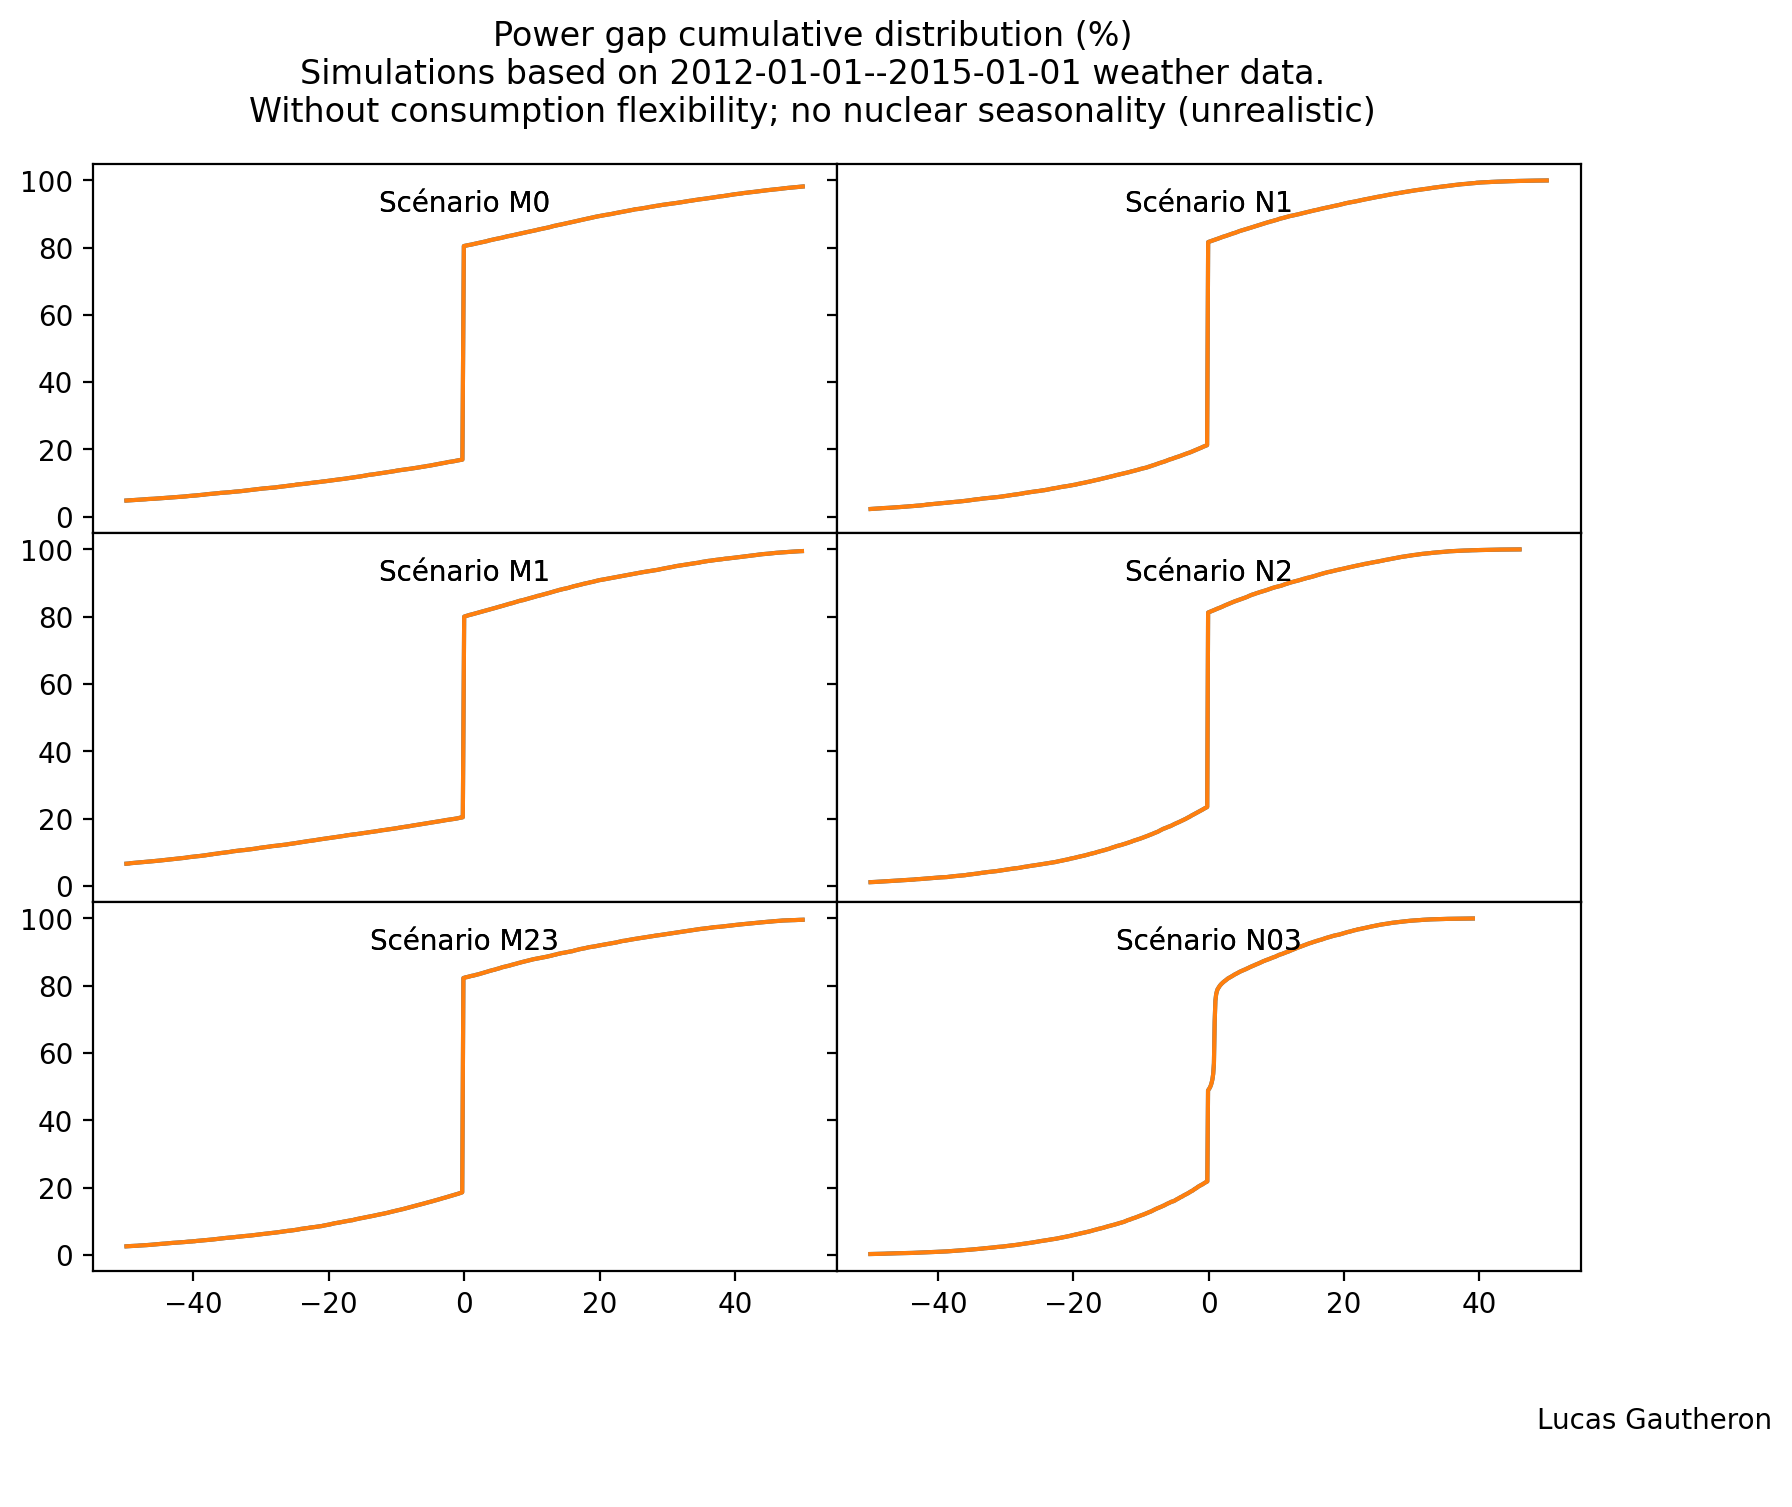
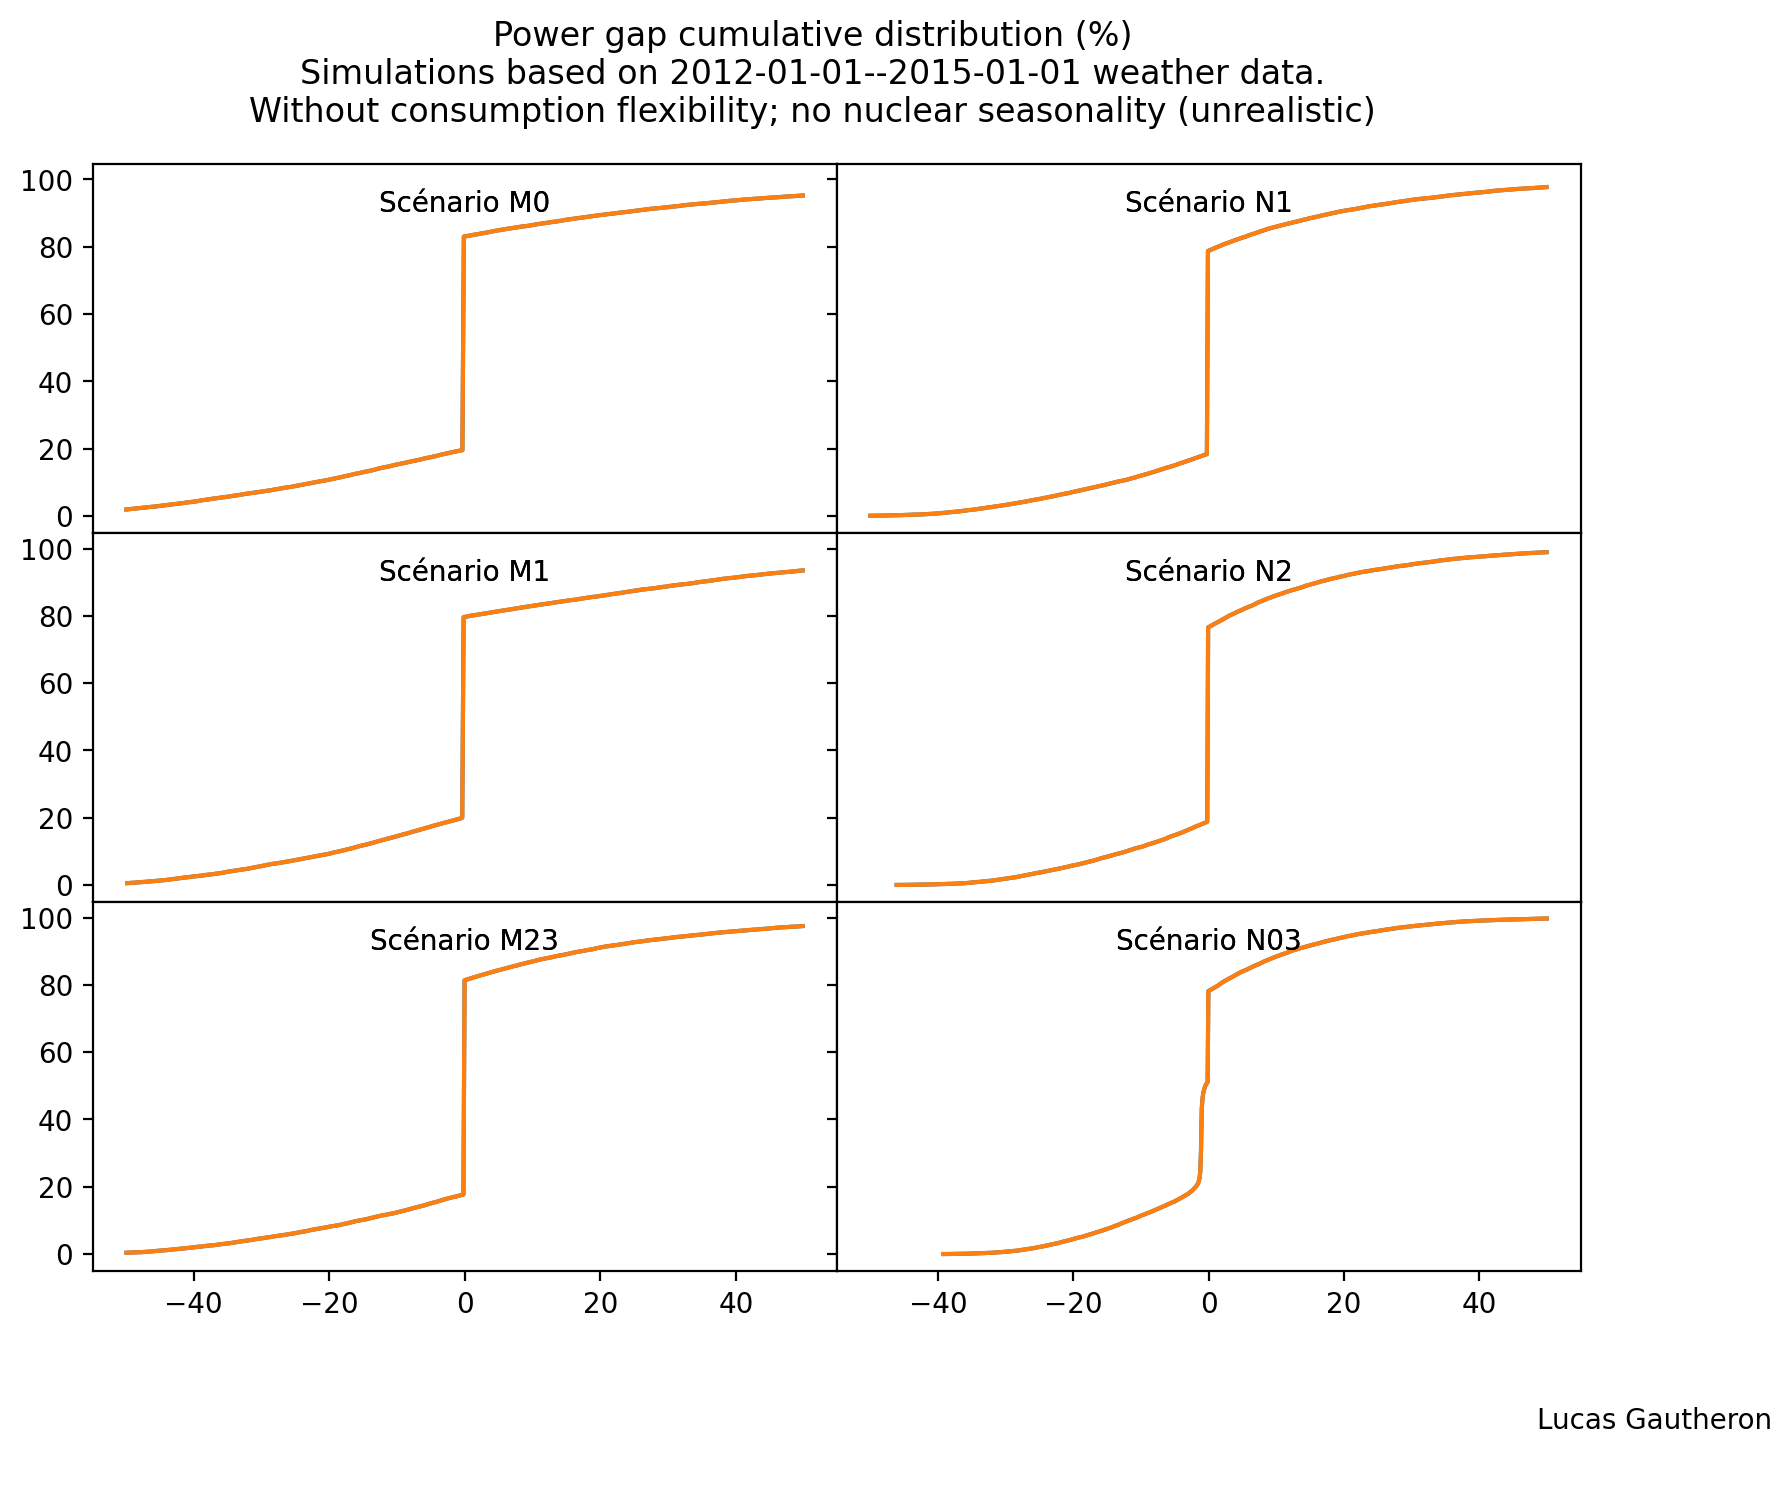
scenarios custom

diff --git a/run.py b/run.py
@@ -4,20 +4,28 @@ import numpy as np
 from matplotlib import pyplot as plt 
 import matplotlib.dates as mdates
 
+import argparse
 import yaml
 
 from mix_simul.scenarios import Scenario 
 
-with open("scenarios/rte.yml", 'r') as f:
-    rte = yaml.load(f, Loader=yaml.FullLoader)
+parser = argparse.ArgumentParser()
+parser.add_argument("--begin", help="begin date (YYYY-MM-DD), between 1985-01-01 and 2015-01-01", required=True)
+parser.add_argument("--end", help="end date (YYYY-MM-DD), between 1985-01-01 and 2015-01-01", required=True)
+parser.add_argument("--flexibility", help="enable load flexibility modeling", action="store_true")
+parser.add_argument("--scenarios", help="path to scenarios parameters yml file", default="scenarios/rte.yml")
+args = parser.parse_args()
+
+with open(args.scenarios, 'r') as f:
+    scenarios = yaml.load(f, Loader=yaml.FullLoader)
 
 potential = pd.read_parquet("data/potential.parquet")
 potential = potential.loc['1985-01-01 00:00:00':'2015-01-01 00:00:00', :]
 potential.fillna(0, inplace=True)
 
-begin = "2012-01-01"
-end = "2015-01-01"
-flexibility = False
+begin = args.begin
+end = args.end
+flexibility = args.flexibility
 
 potential = potential.loc[(
     slice(f'{begin} 00:00:00', f'{end} 00:00:00'), 'FR'), :]
@@ -28,30 +36,57 @@ p = np.insert(p, 3, 0.7, axis=0)  # nuclear power-like
 
 times = potential.index.get_level_values(0)
 
-fig, axes = plt.subplots(nrows=6, ncols=2, sharex="col", sharey=True)
+n_scenarios = len(scenarios)
+
+fig, axes = plt.subplots(nrows=n_scenarios, ncols=2, sharex="col", sharey=True)
 w, h = fig.get_size_inches()
 fig.set_figwidth(w*1.5)
 fig.set_figheight(h*1.5)
 
-fig_storage, axes_storage = plt.subplots(nrows=6, ncols=2, sharex="col", sharey=True)
+fig_storage, axes_storage = plt.subplots(nrows=n_scenarios, ncols=2, sharex="col", sharey=True)
 fig_storage.set_figwidth(w*1.5)
 fig_storage.set_figheight(h*1.5)
 
-fig_dispatch, axes_dispatch = plt.subplots(nrows=6, ncols=2, sharex="col", sharey=True)
+fig_dispatch, axes_dispatch = plt.subplots(nrows=n_scenarios, ncols=2, sharex="col", sharey=True)
 fig_dispatch.set_figwidth(w*1.5)
 fig_dispatch.set_figheight(h*1.5)
 
-fig_gap_distribution, axes_gap_distribution = plt.subplots(nrows=3, ncols=2, sharex="col", sharey=True)
+fig_gap_distribution, axes_gap_distribution = plt.subplots(nrows=int(np.ceil(n_scenarios/2)), ncols=2, sharex="col", sharey=True)
 fig_gap_distribution.set_figwidth(w*1.5)
 fig_gap_distribution.set_figheight(h*1.5)
+
+months = [
+    "Février",
+    "Juin"
+]
+
+labels = [
+    "load (GW)",
+    "production (GW)",
+    "available power (production-storage) (GW)",
+    "power deficit"
+]
+
+labels_storage = [
+    "Batteries (TWh)",
+    "STEP (TWh)",
+    "P2G (TWh)"
+]
+
+labels_dispatch = [
+    "Hydro (GW)",
+    "Biomass (GW)",
+    "Thermal (GW)"
+]
 
 date_fmt = mdates.DateFormatter('%d/%m')
 
 # for step in np.linspace(start, stop, 2050-2022, True)[::-1]:
 row = 0
-for scenario in rte:
-    rte[scenario]["flexibility_power"] = 0
-    scenario_model = Scenario(**rte[scenario])
+for scenario in scenarios:
+    if not flexibility:
+        scenarios[scenario]["flexibility_power"] = 0
+    scenario_model = Scenario(**scenarios[scenario])
     S, load, production, gap, storage, dp = scenario_model.run(times, p)
 
     print(f"{scenario}:", S, gap.max(), np.quantile(gap, 0.95))
@@ -78,32 +113,8 @@ for scenario in rte:
                        '2013-07-01 00:00:00'), 'FR'), :]
     ]
 
-    months = [
-        "Février",
-        "Juin"
-    ]
-
-    labels = [
-        "load (GW)",
-        "production (GW)",
-        "available power (production-storage) (GW)",
-        "power deficit"
-    ]
-
-    labels_storage = [
-        "Batteries (TWh)",
-        "STEP (TWh)",
-        "P2G (TWh)"
-    ]
-
-    labels_dispatch = [
-        "Hydro (GW)",
-        "Biomass (GW)",
-        "Thermal (GW)"
-    ]
-
     for col in range(2):
-        ax = axes[row, col]
+        ax = axes[row, col] if axes.ndim > 1 else axes[col]
         ax.plot(data[col].index.get_level_values(0), data[col]
                 ["load"], label="adjusted load (GW)", lw=1)
         ax.plot(data[col].index.get_level_values(0), data[col]
@@ -126,7 +137,7 @@ for scenario in rte:
 
         ax.set_ylim(10, 210)
 
-        ax = axes_storage[row, col]
+        ax = axes_storage[row, col] if axes.ndim > 1 else axes_storage[col]
         for i in np.arange(3):
             if i == 2:
                 base = 0
@@ -143,7 +154,7 @@ for scenario in rte:
         ax.text(
             0.5, 0.87, f"Scénario {scenario} ({months[col]})", ha='center', transform=ax.transAxes)
 
-        ax = axes_dispatch[row, col]
+        ax = axes_dispatch[row, col] if axes.ndim > 1 else axes_dispatch[col]
         for i in range(dp.shape[0]):
             if i == 0:
                 base = 0
@@ -160,8 +171,9 @@ for scenario in rte:
         ax.text(
             0.5, 0.87, f"Scénario {scenario} ({months[col]})", ha='center', transform=ax.transAxes)
 
-        ax = axes_gap_distribution[row%3, row//3]
-        hist, bin_edges = np.histogram(gap, bins=1000)
+        div = int(np.ceil(n_scenarios/2))
+        ax = axes_gap_distribution[row%div, row//div] if axes_gap_distribution.ndim > 1 else axes_gap_distribution[row%div]
+        hist, bin_edges = np.histogram(-gap, bins=1000)
         hist = np.cumsum(hist)
         hist = 100*(hist - hist.min()) / hist.ptp()
 
@@ -173,17 +185,15 @@ for scenario in rte:
 
     row += 1
 
-for label in axes[-1, 0].get_xmajorticklabels() + axes[-1, 1].get_xmajorticklabels():
-    label.set_rotation(30)
-    label.set_horizontalalignment("right")
-
-for label in axes_storage[-1, 0].get_xmajorticklabels() + axes_storage[-1, 1].get_xmajorticklabels():
-    label.set_rotation(30)
-    label.set_horizontalalignment("right")
-
-for label in axes_dispatch[-1, 0].get_xmajorticklabels() + axes_dispatch[-1, 1].get_xmajorticklabels():
-    label.set_rotation(30)
-    label.set_horizontalalignment("right")
+for axs in [axes, axes_dispatch, axes_storage]:
+    if axes.ndim > 1:
+        for label in axs[-1, 0].get_xmajorticklabels() + axs[-1, 1].get_xmajorticklabels():
+            label.set_rotation(30)
+            label.set_horizontalalignment("right")
+    else:
+        for label in axs[0].get_xmajorticklabels() + axs[-1].get_xmajorticklabels():
+            label.set_rotation(30)
+            label.set_horizontalalignment("right")
 
 flex = "With" if flexibility else "Without"
 

diff --git a/mix_simul/consumption.py b/mix_simul/consumption.py
@@ -94,11 +94,11 @@ class ConsumptionFlexibilityModel:
         constraints = [
             h >= 0,
             h <= 1,
-            h[:, 0] >= 1-flexibility_power/load, # bound on the fraction of the demand at any time that can be postponed
-            cp.multiply(load, cp.sum(h, axis=1))-load <= flexibility_power, # total demand conservation
+            h[:, 0] >= 1-self.flexibility_power/load, # bound on the fraction of the demand at any time that can be postponed
+            cp.multiply(load, cp.sum(h, axis=1))-load <= self.flexibility_power, 
         ] + [
-            reduce(lambda x, y: x+y, [h[t-l, l] for l in range(tau)]) == 1
-            for t in np.arange(flexibility_time, T)
+            reduce(lambda x, y: x+y, [h[t-l, l] for l in range(tau)]) == 1 # total demand conservation
+            for t in np.arange(tau, T)
         ]
 
         prob = cp.Problem(

diff --git a/README.md b/README.md
@@ -1,5 +1,7 @@
 # Simulations mix énergétiques
 
+Ce code implémente une simulation simpliste de mix énergétique. 
+
 ## Installation
 
 ### Installation du répertoire et des données
@@ -45,7 +47,22 @@ pip install -r requirements.txt
 Pour exécuter le code, il suffit d'exécuter le script `run.py'.
 
 ```bash
-python run.py
+$ python run.py --help
+usage: run.py [-h] --begin BEGIN --end END [--flexibility] [--scenarios SCENARIOS]
+
+optional arguments:
+  -h, --help            show this help message and exit
+  --begin BEGIN         begin date (YYYY-MM-DD), between 1985-01-01 and 2015-01-01
+  --end END             end date (YYYY-MM-DD), between 1985-01-01 and 2015-01-01
+  --flexibility         enable load flexibility modeling
+  --scenarios SCENARIOS
+                        path to scenarios parameters yml file
+```
+
+Par exemple, pour les scénarios RTE sans flexibilité à partir des facteurs de charge éolien/PV de 2012--2015:
+
+```bash
+python run.py --begin 2012-01-01 --end 2015-01-01
 ```
 
 ## Output
